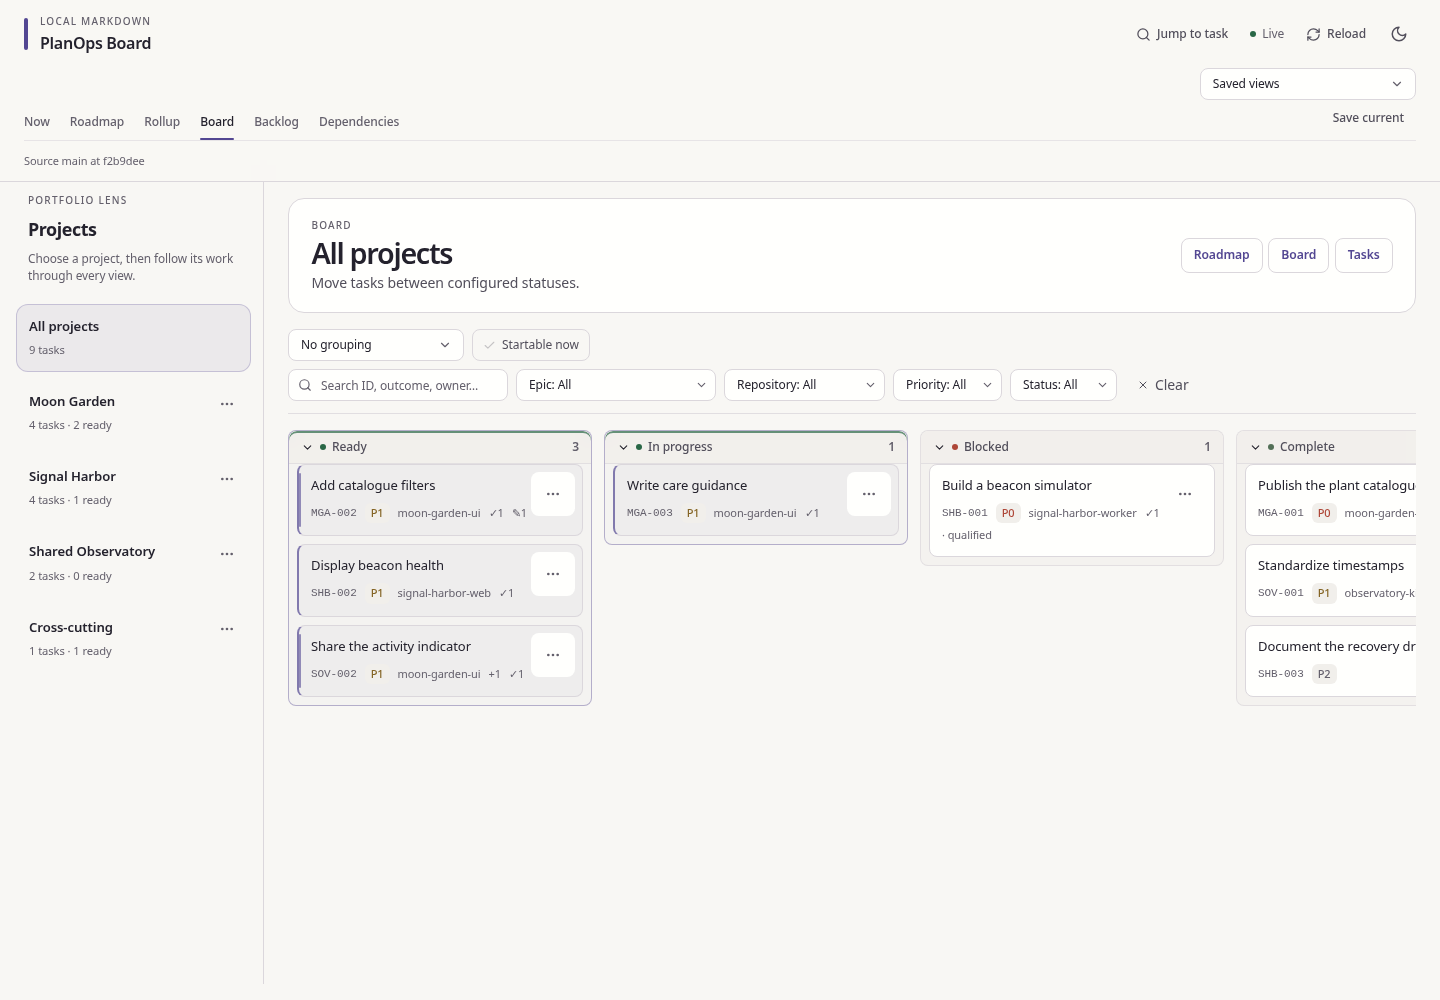
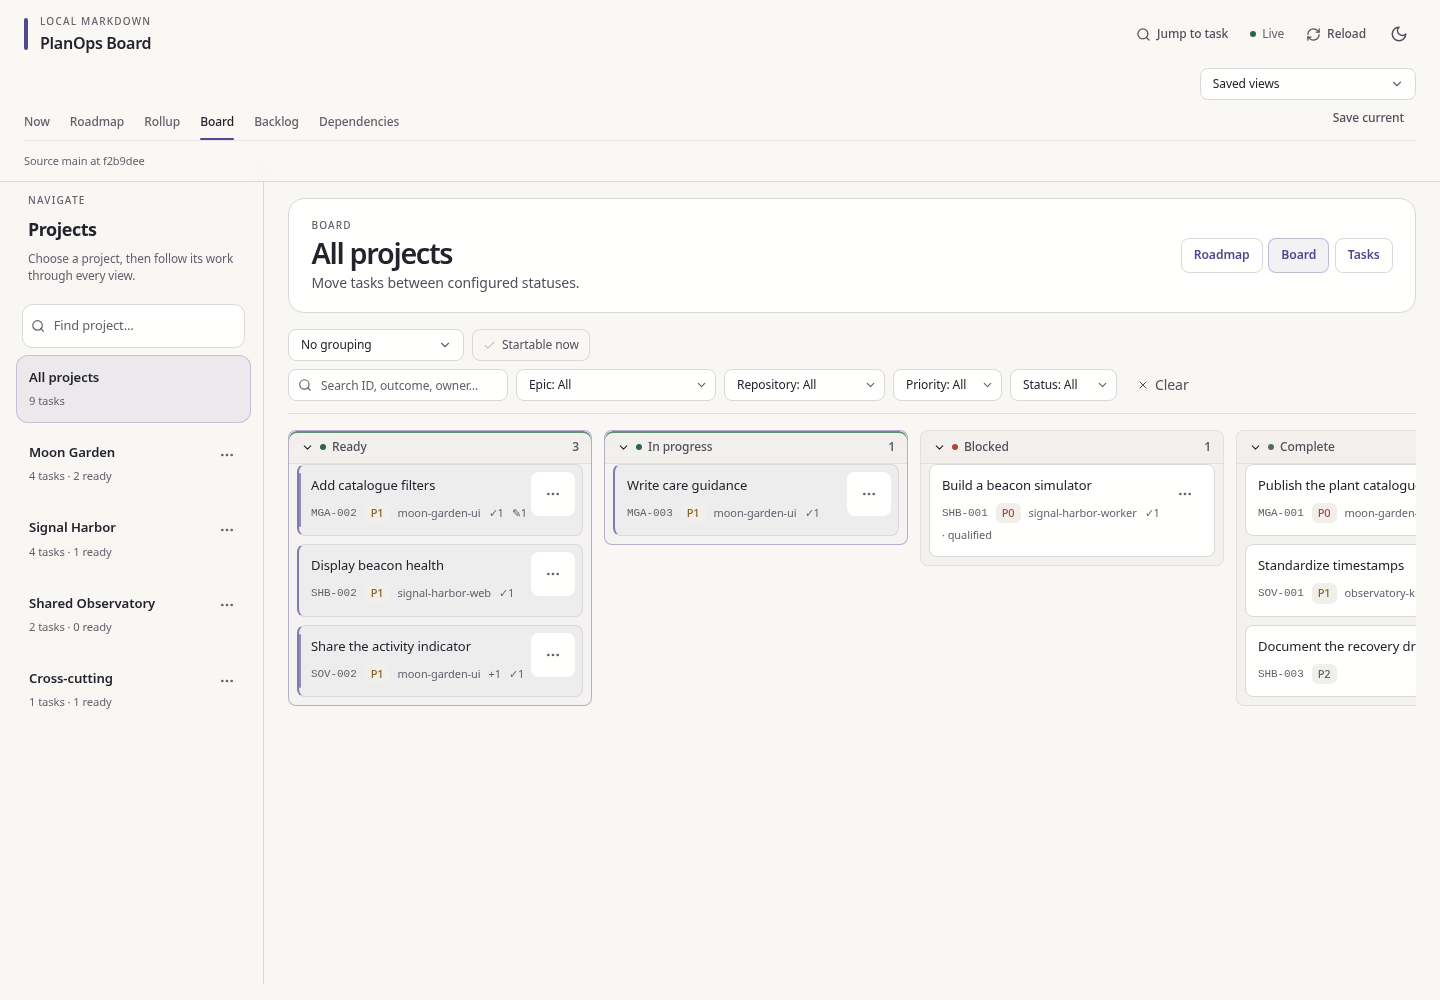
Finalize portfolio navigation and project search

Changed region(s): [[0.0, 0.31, 0.0938, 0.558], [0.0312, 0.589, 0.0938, 0.713], [0.0312, 0.186, 0.0625, 0.217]]

diff --git a/src/App.tsx b/src/App.tsx
@@ -61,7 +61,7 @@ const GROUPS = [
 ] as const;
 
 const VIEW_DESCRIPTION: Record<ViewId, string> = {
-  now: "Prioritized queries over current tasks.",
+  now: "See work that is ready, active, or getting stale.",
   stories: "Roadmap grouped by project, epic, and story or enabler.",
   rollup: "Project coverage, activity, and data quality at a glance.",
   kanban: "Move tasks between configured statuses.",
@@ -115,15 +115,21 @@ function Board({ session }: { readonly session: BoardSession }): JSX.Element {
   const [announcement, setAnnouncement] = useState("");
   const [jumpOpen, setJumpOpen] = useState(false);
   const [kanbanConfirmOpen, setKanbanConfirmOpen] = useState(false);
+  const [projectSearch, setProjectSearch] = useState("");
+  const projectSearchRef = useRef<HTMLInputElement>(null);
   const jumpReturnFocus = useRef<HTMLElement | null>(null);
 
   const { view, group, filters } = query;
   const options = useFilterOptions(board, filters);
   const activeTaskFilters = TASK_FILTER_LABELS.filter(([key]) => filters[key] !== "");
+  const projectTerm = projectSearch.trim().toLocaleLowerCase();
+  const visibleProjects = board?.projects.filter((project) =>
+    `${project.label} ${project.id}`.toLocaleLowerCase().includes(projectTerm)) ?? [];
 
-  const openView = useCallback((view: ViewId) => {
-    setQuery({ view, task: null, story: null, focus: null }, "push");
-  }, [setQuery]);
+  const openView = useCallback((nextView: ViewId) => {
+    if (nextView === view && query.task === null && query.story === null && query.focus === null) return;
+    setQuery({ view: nextView, task: null, story: null, focus: null }, "push");
+  }, [query.focus, query.story, query.task, setQuery, view]);
 
   const openProject = useCallback((project: string, nextView: ViewId = view) => {
     setQuery({ view: nextView, group: "none", filters: { ...emptyFilters, project }, task: null, story: null, focus: null }, "push");
@@ -400,34 +406,50 @@ function Board({ session }: { readonly session: BoardSession }): JSX.Element {
 
       <aside className="portfolio-rail" aria-label="Project explorer">
         <div className="portfolio-rail-heading">
-          <span className="view-eyebrow">Portfolio lens</span>
+          <span className="view-eyebrow">Navigate</span>
           <strong>Projects</strong>
           <p>Choose a project, then follow its work through every view.</p>
         </div>
-        <button type="button" className="portfolio-project focus-ring"
-          aria-current={filters.project === "" ? "true" : undefined}
-          onClick={() => openProject("")}>
-          <span className="portfolio-project-name">All projects</span>
-          <span className="portfolio-project-count">{board?.tasks.length ?? 0} tasks</span>
-        </button>
-        {board?.projects.map((project) => {
-          const projectTasks = board.tasks.filter((task) => task.project === project.id || task.projects.includes(project.id));
-          const startable = projectTasks.filter((task) => task.readiness === "startable").length;
-          return <div className="portfolio-project-row" key={project.id}>
-            <button type="button" className="portfolio-project focus-ring"
-              aria-current={filters.project === project.id ? "true" : undefined}
-              onClick={() => openProject(project.id)}>
-              <span className="portfolio-project-name">{project.label}</span>
-              <span className="portfolio-project-count">{projectTasks.length} tasks · {startable} ready</span>
-            </button>
-            <DropdownMenu align="end" trigger={<span className="portfolio-project-more" aria-label={`Open ${project.label} in a view`}><MoreHorizontal size={16} /></span>}
-              groups={[{ label: project.label, items: [
-                { id: "roadmap", label: "Open roadmap", onClick: () => openProject(project.id, "stories") },
-                { id: "board", label: "Open board", onClick: () => openProject(project.id, "kanban") },
-                { id: "deps", label: "Open dependencies", onClick: () => openProject(project.id, "graph") },
-              ] }]} />
-          </div>;
-        })}
+        <div className="portfolio-search">
+          <Search size={16} aria-hidden />
+          <label htmlFor="portfolio-project-search" className="sr-only">Find project</label>
+          <input id="portfolio-project-search" ref={projectSearchRef} type="search" value={projectSearch}
+            placeholder="Find project…" onChange={(event) => setProjectSearch(event.target.value)} />
+          {projectSearch ? <button type="button" className="focus-ring" aria-label="Clear project search"
+            onClick={() => { setProjectSearch(""); projectSearchRef.current?.focus(); }}><X size={16} aria-hidden /></button> : null}
+        </div>
+        {projectTerm && board ? <p className="portfolio-search-count" role="status">
+          {visibleProjects.length} of {board.projects.length} projects
+        </p> : null}
+        <div className="portfolio-projects">
+          <button type="button" className="portfolio-project focus-ring"
+            aria-current={filters.project === "" ? "true" : undefined}
+            onClick={() => openProject("")}>
+            <span className="portfolio-project-name">All projects</span>
+            <span className="portfolio-project-count">{board?.tasks.length ?? 0} tasks</span>
+          </button>
+          {board ? visibleProjects.map((project) => {
+            const projectTasks = board.tasks.filter((task) => task.project === project.id || task.projects.includes(project.id));
+            const startable = projectTasks.filter((task) => task.readiness === "startable").length;
+            return <div className="portfolio-project-row" key={project.id}>
+              <button type="button" className="portfolio-project focus-ring"
+                aria-current={filters.project === project.id ? "true" : undefined}
+                onClick={() => openProject(project.id)}>
+                <span className="portfolio-project-name">{project.label}</span>
+                <span className="portfolio-project-count">{projectTasks.length} tasks · {startable} ready</span>
+              </button>
+              <DropdownMenu align="end" trigger={<span className="portfolio-project-more" aria-label={`Open ${project.label} in a view`}><MoreHorizontal size={16} /></span>}
+                groups={[{ label: project.label, items: [
+                  { id: "roadmap", label: "Open roadmap", onClick: () => openProject(project.id, "stories") },
+                  { id: "board", label: "Open board", onClick: () => openProject(project.id, "kanban") },
+                  { id: "deps", label: "Open dependencies", onClick: () => openProject(project.id, "graph") },
+                ] }]} />
+            </div>;
+          }) : null}
+          {board && projectTerm && visibleProjects.length === 0 ? <p className="portfolio-project-empty">
+            No projects match “{projectSearch.trim()}”.
+          </p> : null}
+        </div>
       </aside>
 
       {error ? (
@@ -485,9 +507,9 @@ function Board({ session }: { readonly session: BoardSession }): JSX.Element {
           <p className="view-description">{VIEW_DESCRIPTION[view]}</p>
         </div>
         <div className="portfolio-view-actions" aria-label="Project views">
-          <button type="button" className="focus-ring" onClick={() => openView("stories")}>Roadmap</button>
-          <button type="button" className="focus-ring" onClick={() => openView("kanban")}>Board</button>
-          <button type="button" className="focus-ring" onClick={() => openView("backlog")}>Tasks</button>
+          <button type="button" className="focus-ring" aria-current={view === "stories" ? "page" : undefined} onClick={() => openView("stories")}>Roadmap</button>
+          <button type="button" className="focus-ring" aria-current={view === "kanban" ? "page" : undefined} onClick={() => openView("kanban")}>Board</button>
+          <button type="button" className="focus-ring" aria-current={view === "backlog" ? "page" : undefined} onClick={() => openView("backlog")}>Tasks</button>
         </div>
         {COMPOSED.has(view) ? (
           <span className="tabular view-count">

diff --git a/src/styles.css b/src/styles.css
@@ -1163,6 +1163,26 @@ html.dark:has(.ux-portfolio) {
   font-size: 0.74rem;
   line-height: 1.45;
 }
+.ux-portfolio .portfolio-search {
+  display: flex;
+  align-items: center;
+  gap: 0.5rem;
+  min-height: 2.75rem;
+  margin: 0 0.35rem;
+  border: 1px solid rgb(var(--ui-border));
+  border-radius: 0.65rem;
+  padding: 0 0.55rem;
+  background: rgb(var(--ui-bg-raised));
+  color: rgb(var(--ui-text-subtle));
+}
+.ux-portfolio .portfolio-search:focus-within { border-color: rgb(var(--ui-accent)); box-shadow: 0 0 0 2px rgb(var(--ui-accent) / 0.14); }
+.ux-portfolio .portfolio-search input { width: 100%; min-width: 0; background: transparent; color: rgb(var(--ui-text)); font-size: 0.8rem; outline: none; }
+.ux-portfolio .portfolio-search input::-webkit-search-cancel-button { display: none; }
+.ux-portfolio .portfolio-search input::placeholder { color: rgb(var(--ui-text-subtle)); }
+.ux-portfolio .portfolio-search button { display: flex; width: 2rem; height: 2rem; flex: none; align-items: center; justify-content: center; }
+.ux-portfolio .portfolio-search-count { margin: 0 0.75rem; color: rgb(var(--ui-text-subtle)); font-size: 0.72rem; }
+.ux-portfolio .portfolio-projects { display: flex; min-height: 0; flex-direction: column; gap: 0.45rem; overflow-y: auto; }
+.ux-portfolio .portfolio-project-empty { padding: 0.75rem; color: rgb(var(--ui-text-muted)); font-size: 0.8rem; line-height: 1.4; overflow-wrap: anywhere; }
 .ux-portfolio .portfolio-project-row { position: relative; }
 .ux-portfolio .portfolio-project {
   display: grid;
@@ -1216,6 +1236,7 @@ html.dark:has(.ux-portfolio) {
   font-weight: 600;
 }
 .ux-portfolio .portfolio-view-actions > button:hover { background: rgb(var(--ui-accent) / 0.08); }
+.ux-portfolio .portfolio-view-actions > button[aria-current="page"] { border-color: rgb(var(--ui-accent) / 0.32); background: rgb(var(--ui-accent) / 0.08); }
 .ux-portfolio .board-card-menu { opacity: 1; }
 .ux-portfolio .board-card-menu > button { background: rgb(var(--ui-bg-raised)); }
 
@@ -1261,23 +1282,27 @@ html.dark:has(.ux-portfolio) {
     bottom: 1rem;
     left: 1rem;
     width: 15.5rem;
-    overflow-y: auto;
+    overflow: hidden;
   }
   .ux-portfolio > :not(.app-header):not(.portfolio-rail) { margin-left: 16.5rem; }
 }
 
 @media (max-width: 959px) {
   .ux-portfolio .portfolio-rail {
-    display: grid;
-    grid-auto-flow: column;
-    grid-auto-columns: minmax(10rem, 43vw);
+    display: flex;
+    flex-direction: column;
     max-height: none;
-    overflow-x: auto;
-    overflow-y: hidden;
     border: 1px solid rgb(var(--ui-border));
     border-radius: 0.8rem;
     padding: 0.5rem;
   }
   .ux-portfolio .portfolio-rail-heading { display: none; }
+  .ux-portfolio .portfolio-projects {
+    display: grid;
+    grid-auto-flow: column;
+    grid-auto-columns: minmax(10rem, 43vw);
+    overflow-x: auto;
+    overflow-y: hidden;
+  }
   .ux-portfolio .portfolio-project { min-height: 4.25rem; }
 }

diff --git a/tests/roadmap-ui.test.tsx b/tests/roadmap-ui.test.tsx
@@ -217,6 +217,37 @@ describe("Roadmap in the real App", () => {
     expect(screen.getByPlaceholderText(/Search ID/)).toHaveValue("");
   });
 
+  it("finds a project in a large portfolio and keeps the selected scope visible after clearing search", async () => {
+    const board = fixture();
+    const projects = Array.from({ length: 80 }, (_, index) => ({ ...board.projects[0]!, id: `portfolio-${index}`, label: `Project ${index}` }));
+    transport({ ...board, projects }); render(<App />);
+    const search = await screen.findByRole("searchbox", { name: "Find project" });
+    fireEvent.change(search, { target: { value: "portfolio-79" } });
+    expect(screen.getByRole("status")).toHaveTextContent("1 of 80 projects");
+    expect(screen.getByRole("button", { name: /Project 79.*tasks/ })).toBeVisible();
+    expect(screen.queryByRole("button", { name: /Project 78.*tasks/ })).not.toBeInTheDocument();
+    fireEvent.click(screen.getByRole("button", { name: /Project 79.*tasks/ }));
+    expect(window.location.hash).toBe("#project=portfolio-79");
+    fireEvent.change(search, { target: { value: "no-such-project" } });
+    expect(screen.getByText("No projects match “no-such-project”.")).toBeVisible();
+    expect(screen.getByRole("button", { name: /All projects.*tasks/ })).toBeVisible();
+    fireEvent.click(screen.getByRole("button", { name: "Clear project search" }));
+    expect(search).toHaveFocus();
+    expect(search).toHaveValue("");
+    expect(screen.getByRole("button", { name: /Project 79.*tasks/ })).toHaveAttribute("aria-current", "true");
+  });
+
+  it("does not add a history step when the active view shortcut is clicked again", async () => {
+    window.history.replaceState(null, "", "/#view=backlog");
+    transport(); render(<App />);
+    const shortcut = await screen.findByRole("button", { name: "Tasks" });
+    expect(shortcut).toHaveAttribute("aria-current", "page");
+    const length = window.history.length;
+    fireEvent.click(shortcut);
+    expect(window.history.length).toBe(length);
+    expect(window.location.hash).toBe("#view=backlog");
+  });
+
   it("reports a stale task filter only when the active view applies it", async () => {
     window.history.replaceState(null, "", "/#view=stories&project=orbit&epic=deleted.md");
     transport(); render(<App />);

diff --git a/e2e/portfolio.spec.ts b/e2e/portfolio.spec.ts
@@ -82,3 +82,23 @@ test("mobile task menus stay in the viewport and return keyboard focus", async (
   await expect(trigger).toBeFocused();
   expect(await page.evaluate(() => document.documentElement.scrollWidth)).toBeLessThanOrEqual(320);
 });
+
+test("project search opens a scoped view and recovers from an empty result on mobile", async ({ page }) => {
+  await page.setViewportSize({ width: 320, height: 720 });
+  await page.goto("/");
+  const search = page.getByRole("searchbox", { name: "Find project" });
+  await search.fill("signal");
+  await expect(page.getByRole("status")).toContainText("1 of 4 projects");
+  await page.getByRole("button", { name: "Open Signal Harbor in a view" }).click();
+  await page.getByRole("menuitem", { name: "Open board" }).click();
+  await expect(page).toHaveURL(/#view=kanban&project=signal-harbor$/);
+  await expect(page.getByRole("radio", { name: "Board", exact: true })).toBeChecked();
+  await expect(search).toHaveValue("signal");
+  await search.fill("nothing-matches");
+  await expect(page.getByText("No projects match “nothing-matches”.")).toBeVisible();
+  await expect(page.getByRole("heading", { name: "Signal Harbor" })).toBeVisible();
+  await page.getByRole("button", { name: "Clear project search" }).click();
+  await expect(search).toBeFocused();
+  await expect(page.getByRole("button", { name: /^Signal Harbor \d+ tasks/ })).toHaveAttribute("aria-current", "true");
+  expect(await page.evaluate(() => document.documentElement.scrollWidth)).toBeLessThanOrEqual(320);
+});

diff --git a/docs/ux-prototype/README.md b/docs/ux-prototype/README.md
@@ -1,17 +1,18 @@
-# Option B — Portfolio lens
+# Portfolio navigation
 
 Projects anchor navigation across Now, Roadmap, Rollup, Board, Backlog, and Dependencies. The explorer shows task and readiness counts; each project menu opens its Roadmap, Board, or Dependencies.
 
-The September 14 refinement makes task actions consistent across views, explains paused filters, and opens the dependency graph without a reader covering it. This remains candidate B in [draft PR #5](https://github.com/alex-macra/planops-board/pull/5).
+This is the selected portfolio lens implementation in [PR #5](https://github.com/alex-macra/planops-board/pull/5). It makes task actions consistent across views, explains paused filters, and opens the dependency graph without a reader covering it.
 
 ## Walkthrough
 
-1. Select a project in the explorer. Its full scope opens; text, epic, status, and other task filters from the previous project are cleared. Browser Back restores the previous scope and filters.
-2. Switch views using the tabs or title actions. Task filters stay in the URL. Now, Roadmap, and Rollup show a **Task filters are paused** notice, with removable chips, **View filtered tasks**, and **Clear task filters**.
-3. Open a task's **…** menu in Now, Backlog, or Board. The same actions open details, show dependencies, or find the task in Backlog. Board also retains its guarded status moves.
-4. Choose **Show dependencies**. The graph opens with the task highlighted and its selection in `#view=graph&focus=MGA-002`. Selecting another node updates the highlight. **Open task details** opens the reader; closing it returns to the graph selection.
-5. Use the selected graph task's menu to **Find in backlog**. An unrelated project scope is cleared so the destination task remains visible. A selected task with no edges still appears in the graph.
-6. On mobile, open a card menu near the screen edge. The menu flips or shifts into the viewport; arrow keys navigate, Escape returns focus, and Tab continues past the trigger.
+1. Find a project by name or ID in the explorer. The result count and empty state make large portfolios navigable; **Clear project search** restores the list and keyboard focus. On mobile, the project list scrolls horizontally beneath the search field.
+2. Select a project. Its full scope opens; text, epic, status, and other task filters from the previous project are cleared. Browser Back restores the previous scope and filters.
+3. Switch views using the tabs or title actions. Task filters stay in the URL. Now, Roadmap, and Rollup show a **Task filters are paused** notice, with removable chips, **View filtered tasks**, and **Clear task filters**. The active view shortcut is marked and does not add a duplicate Back step.
+4. Open a task's **…** menu in Now, Backlog, or Board. The same actions open details, show dependencies, or find the task in Backlog. Board also retains its guarded status moves.
+5. Choose **Show dependencies**. The graph opens with the task highlighted and its selection in `#view=graph&focus=MGA-002`. Selecting another node updates the highlight. **Open task details** opens the reader; closing it returns to the graph selection.
+6. Use the selected graph task's menu to **Find in backlog**. An unrelated project scope is cleared so the destination task remains visible. A selected task with no edges still appears in the graph.
+7. On mobile, open a card menu near the screen edge. The menu flips or shifts into the viewport; arrow keys navigate, Escape returns focus, and Tab continues past the trigger.
 
 The project explorer becomes a horizontal strip on narrow screens. Menus and readers share the portfolio theme in light and dark mode.
 
@@ -19,20 +20,21 @@ The project explorer becomes a horizontal strip on narrow screens. Menus and rea
 
 - Six views: [Now](now.png) · [Roadmap](roadmap.png) · [Rollup](rollup.png) · [Board](board.png) · [Backlog](backlog.png) · [Dependencies](dependencies.png)
 - Task actions: [Now menu](now-menu.png) · [Board menu](board-menu.png) · [Backlog menu](backlog-menu.png) · [Dark menu](dark-menu.png)
+- Explorer: [Project search](project-search.png) · [No matches](project-search-empty.png) · [Mobile search](mobile-project-search.png)
 - Transitions: [Paused filters](paused-filters.png) · [Backlog from a card](backlog-from-card.png) · [Task reader](task-detail.png) · [Focused graph](dependencies-focused.png)
 - Mobile: [Now at 390px](mobile-now.png) · [Board menu at 320px](mobile-menu.png)
 - [Browser verification](verification.json) · [Accessibility scans](accessibility.json)
 
 ## Validation
 
-- `npm run verify`: typecheck, 631 tests, 53 parity tests, production build, public boundary, and dependency licenses passed.
-- `BOARD_E2E_PORT=5199 npm run test:e2e -- --project=chromium`: 20 passed, including guarded edit/undo/commit, reader focus, all six views, new navigation journeys, and mobile menu bounds.
-- All 16 review captures passed WCAG-tagged axe scans, with no browser errors or API mutations. Captures use the disposable fictional demo; the JSON files record states and mobile menu bounds.
+- `npm run verify`: typecheck, 633 tests, 53 parity tests, production build, public boundary, and dependency licenses passed.
+- `BOARD_E2E_PORT=5199 npm run test:e2e -- --project=chromium`: 21 passed, including guarded edit/undo/commit, reader focus, all six views, project search, navigation journeys, and mobile menu bounds.
+- All 19 review captures passed WCAG-tagged axe scans, with no browser errors or API mutations. Captures use the disposable fictional demo; the JSON files record states and mobile menu bounds.
 
 ## Worktrees and preview
 
-Candidate B lives in `tooling/planops-board-ux-portfolio` on `ux/portfolio-lens`. A remains in `tooling/planops-board-ux-focus`; C remains in `tooling/planops-board-ux-command`. The local comparison gallery is `tooling/planops-board-ux-review/index.html`.
+The selected implementation lives in `tooling/planops-board-ux-portfolio` on `ux/portfolio-lens`. A remains in `tooling/planops-board-ux-focus`; C remains in `tooling/planops-board-ux-command`. The local comparison gallery is `tooling/planops-board-ux-review/index.html`.
 
 From the B worktree, run `BOARD_E2E_PORT=5199 node --import tsx e2e/serve.ts`, then open `http://127.0.0.1:5199`. This creates a disposable demo repository and removes it when the server is stopped.
 
-Tradeoff: a long project list needs more space and navigation attention than a task-first flow. The project explorer remains the next area to assess against a larger portfolio.
+The explorer search was checked against 80 fictional projects, including selection, an empty result, and restoring the selected scope after clearing search.
